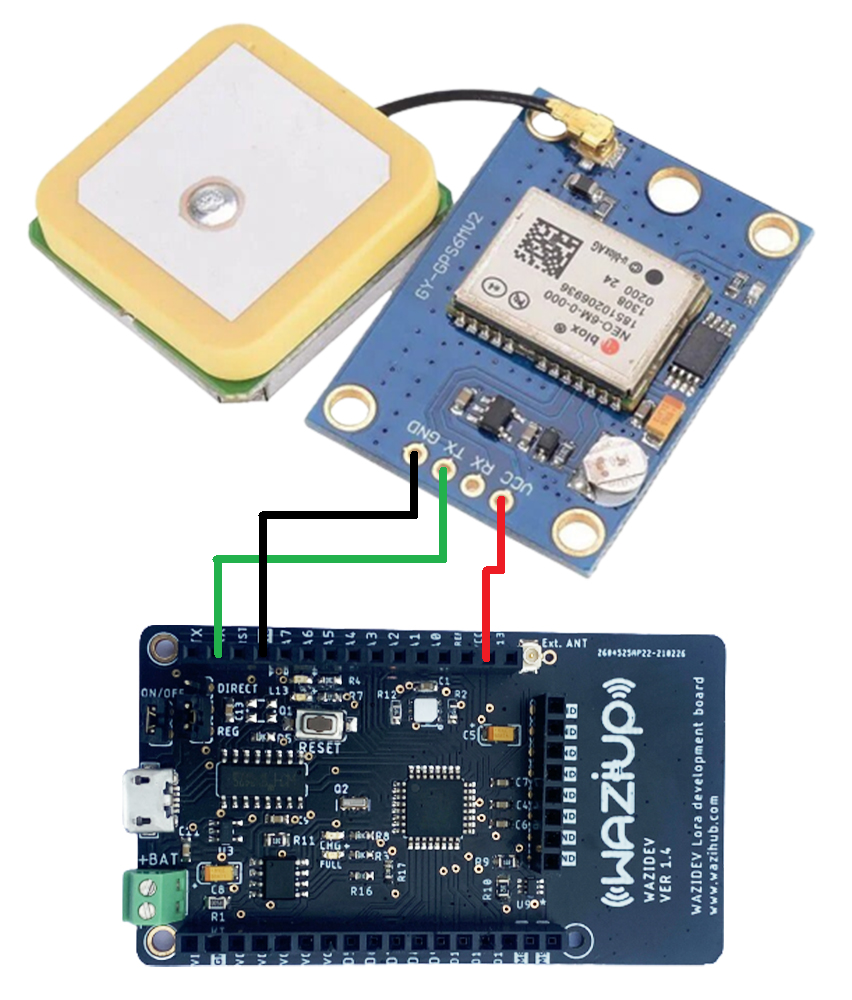
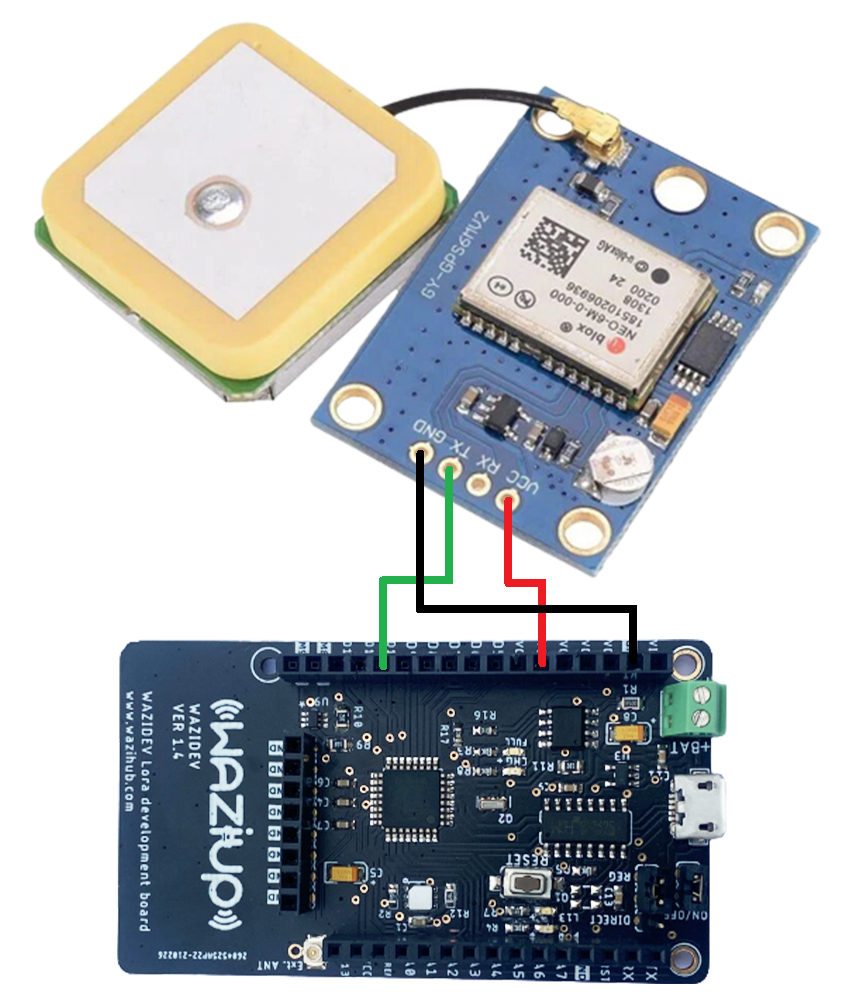
cattle rustling

diff --git a/content/en/solutions/cattle_rustling/guide.md b/content/en/solutions/cattle_rustling/guide.md
@@ -61,12 +61,69 @@ Schematics
 ![GPS Wiring](./media/sch1.png)
 
 Module interface:
-1. VCC: Connect to the 5v(VCC) pin of the wazidev
+1. VCC: Connect to the 3.3V(VCC) pin of the wazidev
 2. GND: Connect to the GND pin of the wazidev
-3. TX: Connect to RX pin of the wazidev
-4. RX: No need to connect this pin as we wont be sending any commands to the GPS board
+3. TX: Connect to pin 10 of the wazidev
+4. RX: No need to connect to pin 11 as we wont be sending any commands to the GPS board
 
-NOTE:
+Code Sample
+-----------
+
+````c
+#include <TinyGPS++.h>
+#include <SoftwareSerial.h>
+
+//Declaring pin 10 as recieve and 11 as Transmit
+static const int RXPin = 10, TXPin = 11;
+
+//Setting GPS communication Speed to default of NEO-M8 board
+static const uint32_t GPSBaud = 9600;
+
+//Creating GPS Object
+TinyGPSPlus gps;
+
+//Activating serial communication
+SoftwareSerial ss(RXPin, TXPin);
+
+void setup() {
+  Serial.begin(38400);
+
+  //Start listening for GPS Data
+  ss.begin(GPSBaud);
+}
+
+void loop() {
+    //When GPS data is available.
+  while (ss.available() > 0)
+    if (gps.encode(ss.read()))
+      displayInfo();
+
+  //When there's an error
+  if (millis() > 5000 && gps.charsProcessed() < 10)
+  {
+    Serial.println(F("No GPS detected: check wiring."));
+    while(true);
+  }
+}
+
+
+void displayInfo(){
+  //When new GPS data is correctly encoded/processed.
+  if(gps.satellites.isValid() && gps.location.isValid() && gps.altitude.isValid() ){
+     Serial.print(F("Sats: "));
+     Serial.print(gps.satellites.value());
+     Serial.print(F(" Location: "));
+     Serial.print(gps.location.lat(), 6);
+     Serial.print(F(" "));
+     Serial.print(gps.location.lng(), 6);
+     Serial.print(F(" Altitude: ")); 
+     Serial.println(gps.altitude.meters());
+  }else{
+    Serial.print(F("INVALID"));
+  }
+  delay(5000);
+}
+````
 
 **Step \#3:** Tracking Using Geofencing
 =======================================
